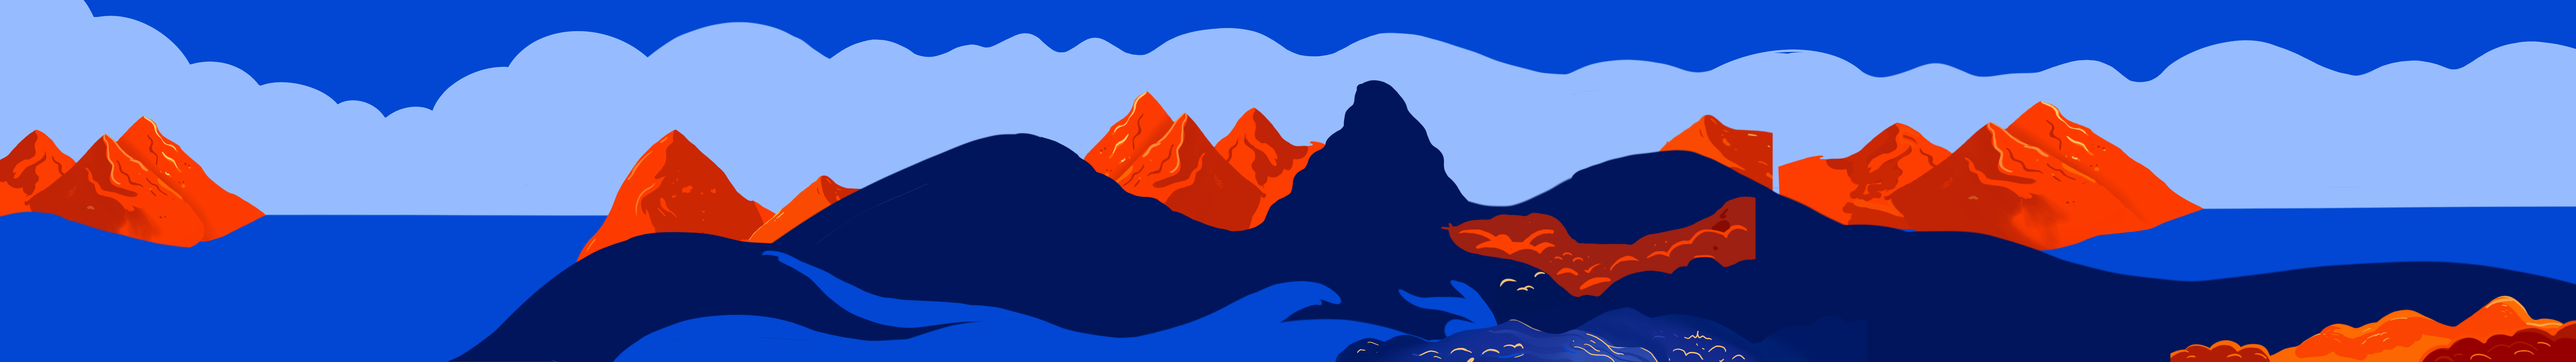
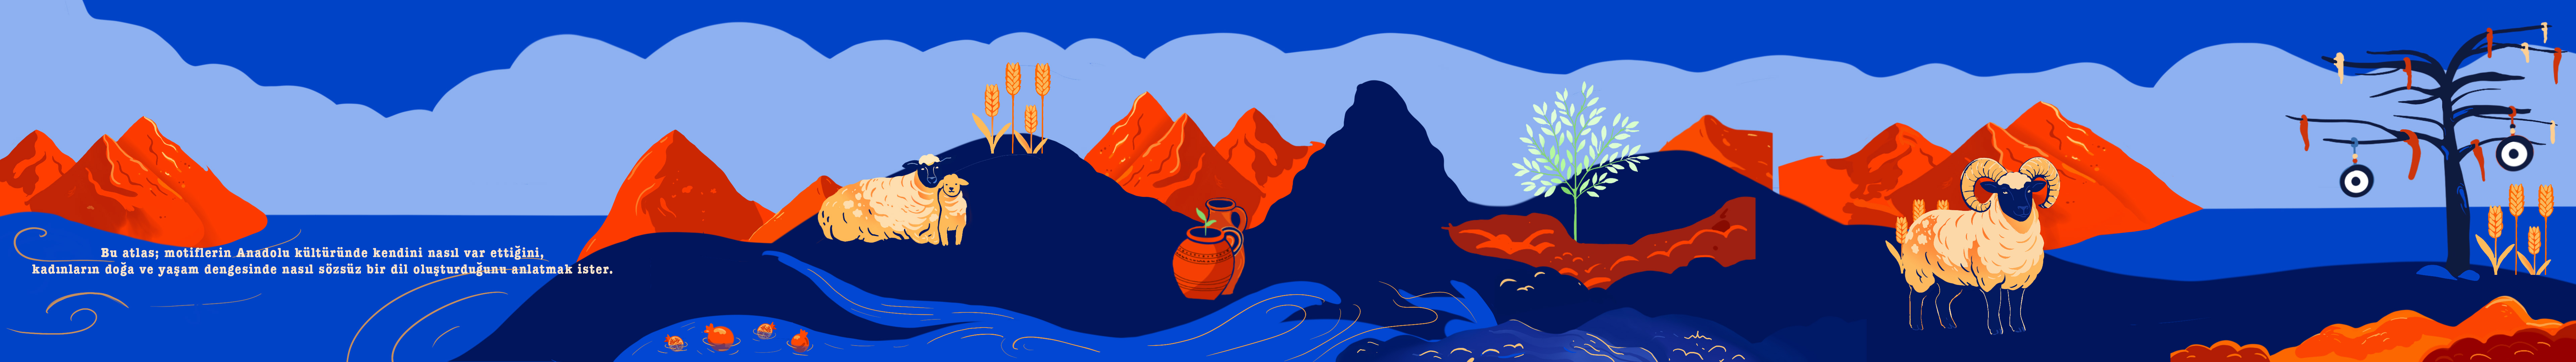
son güncellemelerin hepsi

diff --git a/css/style.css b/css/style.css
@@ -15,13 +15,30 @@ html,body{width:100%;height:100%;overflow:hidden;background:#00155c}
 .overlay.open{transform:translateY(0);opacity:1;pointer-events:all}
 
 /* ── HERO ── */
-#hero{cursor:pointer}
+#hero{cursor:default}
 #hero img{width:100%;height:100%;object-fit:cover;display:block}
 #hero-hint{position:absolute;bottom:48px;left:50%;transform:translateX(-50%);
             color:var(--cream);font-family:'Josefin Slab',serif;font-size:13px;
             letter-spacing:3px;text-transform:uppercase;pointer-events:none;
             animation:pulse 2.5s ease-in-out infinite}
 @keyframes pulse{0%,100%{opacity:.4}50%{opacity:.9}}
+#kesfet-btn{
+  position:absolute;bottom:52px;left:50%;transform:translateX(-50%);
+  background:#fbe5cc;
+  border:2px solid #fbe5cc;
+  color:#00155c;
+  font-family:'American Typewriter','Courier New',serif;
+  font-size:15px;letter-spacing:4px;text-transform:uppercase;
+  padding:11px 36px;
+  cursor:pointer;
+  box-shadow:0 0 28px rgba(251,229,204,.6);
+  transition:background .3s,color .3s,box-shadow .3s;
+  z-index:10;
+}
+#kesfet-btn:hover{
+  background:#ffd4a8;border-color:#ffd4a8;
+  box-shadow:0 0 44px rgba(251,229,204,.9);
+}
 
 /* ── PANO ── */
 #pano{background:var(--bg);overflow:hidden}
@@ -98,7 +115,7 @@ html,body{width:100%;height:100%;overflow:hidden;background:#00155c}
 #topNav{position:fixed;top:22px;right:36px;
            z-index:50;display:flex;gap:36px;align-items:center}
 #topNav button{
-  font-family:'American Typewriter','Courier New',monospace;
+  font-family:'Josefin Slab',monospace;
   font-size:11px;letter-spacing:4px;text-transform:uppercase;
   color:var(--cream);background:transparent;border:none;
   padding:4px 0;cursor:pointer;
@@ -123,9 +140,9 @@ html,body{width:100%;height:100%;overflow:hidden;background:#00155c}
 #scrollIndicator{position:fixed;bottom:30px;left:50%;
                   transform:translateX(-50%);
                   display:flex;align-items:center;gap:10px;
-                  color:var(--cream);font-family:'Josefin Slab',serif;
-                  font-size:11px;letter-spacing:3px;
-                  opacity:.6;pointer-events:none;
+                  color:var(--cream);font-family:'American Typewriter','Courier New',serif;
+                  font-size:15px;letter-spacing:4px;
+                  opacity:.85;pointer-events:none;
                   transition:opacity 1s;z-index:40}
 #scrollIndicator.hidden{opacity:0}
 .arr{animation:arrowBounce 1.5s ease-in-out infinite}
@@ -160,6 +177,7 @@ html,body{width:100%;height:100%;overflow:hidden;background:#00155c}
   /* Hero */
   #hero img{object-position:center center}
   #hero-hint{font-size:10px;letter-spacing:2px;bottom:28px}
+  #kesfet-btn{font-size:11px;letter-spacing:3px;padding:10px 28px;bottom:38px}
 
   /* Dokuma — tam görsel göster, scroll edilebilir */
   .dokuma-img{height:auto;object-fit:contain;}
@@ -175,4 +193,79 @@ html,body{width:100%;height:100%;overflow:hidden;background:#00155c}
 
   /* Kapat butonu */
   .close-btn{top:14px;right:14px;width:36px;height:36px;font-size:16px}
+}
+
+
+/* ── KADIN İLERLEME GÖSTERGESİ ── */
+#womanProgress{
+  position:fixed;bottom:22px;left:50%;transform:translateX(-50%);
+  display:none;align-items:center;gap:14px;
+  z-index:50;pointer-events:none;
+}
+#womanProgress.visible{display:flex;}
+.wp-dots{display:flex;gap:10px;align-items:center;}
+.wp-dot{
+  display:inline-block;width:9px;height:9px;border-radius:50%;
+  background:rgba(251,229,204,0.35);
+  border:1.5px solid rgba(251,229,204,0.6);
+  transition:background .3s,transform .3s;
+}
+.wp-dot.active{
+  background:#fbe5cc;
+  transform:scale(1.45);
+  border-color:#fbe5cc;
+}
+#wp-counter{
+  color:rgba(251,229,204,0.75);
+  font-family:'American Typewriter','Courier New',serif;
+  font-size:13px;letter-spacing:2px;
+}
+
+/* ── FOOTER ── */
+#site-footer{
+  position:fixed;
+  bottom:14px;right:20px;
+  z-index:400;
+  color:rgba(251,229,204,0.65);
+  font-family:'American Typewriter','Courier New',serif;
+  font-size:11px;letter-spacing:1.5px;
+  pointer-events:none;
+  display:none;
+}
+#site-footer.visible{ display:block; }
+
+/* ── KADIN HOVER ETİKETİ ── */
+.woman-label{
+  position:fixed;
+  top:8vh;
+  left:50%;transform:translateX(-50%);
+  color:#fbe5cc;
+  font-family:'American Typewriter','Courier New',serif;
+  font-weight:bold;
+  font-size:clamp(16px,2.2vw,32px);
+  letter-spacing:3px;
+  white-space:nowrap;
+  opacity:0;
+  pointer-events:none;
+  text-shadow:0 2px 12px rgba(0,0,0,0.6);
+  transition:opacity .25s ease;
+  z-index:60;
+}
+.woman-hotspot:hover .woman-label{
+  opacity:1;
+}
+
+/* ── ATLAS HAKKINDA overlay ── */
+#atlas{overflow-y:auto;}
+#atlas .overlay-content{
+  display:block;
+  min-height:unset;
+  padding:0;
+  margin:0;
+}
+#atlas video{
+  width:100%;
+  height:auto;
+  display:block;
+  margin:0;padding:0;
 }

diff --git a/index.html b/index.html
@@ -10,19 +10,17 @@
 <body>
 
 <!-- ══ HERO ══ -->
-<div id="hero" class="page active" onclick="showPanoramic()" style="cursor:pointer">
+<div id="hero" class="page active">
   <img src="assets/images/hero.jpg" alt="MOTİF ATLASI">
   <div id="hero-hint"></div>
+  <button id="kesfet-btn" onclick="showPanoramic()">KEŞFET</button>
 </div>
 
 <!-- ══ PANORAMİK ══ -->
 <div id="pano" class="page" style="display:none">
   <nav id="topNav">
-    <button onclick="showOverlay('kadin')">Kadinlar</button>
-    <button onclick="showOverlay('anadolu')">Anadolu</button>
-    <button onclick="showOverlay('motif')">Dokuma</button>
+    <button onclick="showOverlay('atlas')">ATLAS HAKKINDA</button>
   </nav>
-
   <div id="panoScroller">
     <div id="panoScene">
 
@@ -54,19 +52,19 @@
       <!-- ══ Kadın hotspot tıklama alanları ══ -->
       <div class="woman-hotspot" style="left:21%;width:13%;"
            onmouseenter="womanHover(0,true)" onmouseleave="womanHover(0,false)"
-           onclick="womanClick(event,0,'yasam')"></div>
+           onclick="womanClick(event,0,'yasam')"><span class="woman-label">YAŞAM</span></div>
       <div class="woman-hotspot" style="left:36%;width:11%;"
            onmouseenter="womanHover(1,true)" onmouseleave="womanHover(1,false)"
-           onclick="womanClick(event,1,'bereket')"></div>
+           onclick="womanClick(event,1,'bereket')"><span class="woman-label">BEREKET</span></div>
       <div class="woman-hotspot" style="left:46%;width:14%;"
            onmouseenter="womanHover(2,true)" onmouseleave="womanHover(2,false)"
-           onclick="womanClick(event,2,'akis')"></div>
+           onclick="womanClick(event,2,'akis')"><span class="woman-label">AKIŞ</span></div>
       <div class="woman-hotspot" style="left:57%;width:16%;"
            onmouseenter="womanHover(3,true)" onmouseleave="womanHover(3,false)"
-           onclick="womanClick(event,3,'guc')"></div>
-      <div class="woman-hotspot" style="left:69%;width:24%;"
+           onclick="womanClick(event,3,'guc')"><span class="woman-label">GÜÇ</span></div>
+      <div class="woman-hotspot" style="left:75%;width:12%;"
            onmouseenter="womanHover(4,true)" onmouseleave="womanHover(4,false)"
-           onclick="womanClick(event,4,'nazar')"></div>
+           onclick="womanClick(event,4,'nazar')"><span class="woman-label">NAZAR</span></div>
 
     </div>
   </div>
@@ -74,8 +72,19 @@
   <!-- Uçan kuş -->
   <div id="bird"></div>
 
+  <div id="womanProgress">
+    <div class="wp-dots">
+      <span class="wp-dot" data-i="0"></span>
+      <span class="wp-dot" data-i="1"></span>
+      <span class="wp-dot" data-i="2"></span>
+      <span class="wp-dot" data-i="3"></span>
+      <span class="wp-dot" data-i="4"></span>
+    </div>
+    <span id="wp-counter">1 / 5</span>
+  </div>
+
   <div id="scrollIndicator">
-    <span>KAYDİR</span><span class="arr">→</span>
+    <span>KAYDIRARAK KEŞFET</span>
   </div>
 </div>
 
@@ -95,13 +104,6 @@
   </div>
 </div>
 
-<!-- ══ DOKUMA ══ -->
-<div id="motif" class="overlay" style="display:none">
-  <button class="close-btn" onclick="closeOverlay('motif')">✕</button>
-  <div class="overlay-content" style="background:#87CEEB;align-items:center;justify-content:center;padding:0;min-height:100vh;">
-    <img src="assets/images/dokuma-gorsel.png" alt="DOKUMA" class="dokuma-img" style="display:block;">
-  </div>
-</div>
 
 <div id="yasam" class="overlay" style="display:none">
   <button class="close-btn" onclick="closeOverlay('yasam')">✕</button>
@@ -121,21 +123,16 @@
     <img src="assets/images/overlay-guc.jpg" alt="GÜÇ" style="width:100%;display:block;">
   </div>
 </div>
-<div id="anadolu" class="overlay" style="display:none">
-  <button class="close-btn" onclick="closeOverlay('anadolu')">✕</button>
-  <div class="overlay-content" style="background:#00155c;align-items:center;justify-content:center;padding:0;">
-    <video id="anadoluVideo" autoplay muted loop playsinline
-           style="width:100%;max-height:100vh;object-fit:contain;display:block;">
-      <source src="assets/videos/video-anadolu.mp4" type="video/mp4">
-    </video>
-  </div>
-</div>
-<div id="kadin" class="overlay" style="display:none">
-  <button class="close-btn" onclick="closeOverlay('kadin')">✕</button>
-  <div class="overlay-content" style="background:#00155c;align-items:center;justify-content:center;padding:0;">
-    <video id="kadinVideo" autoplay muted loop playsinline
-           style="width:100%;max-height:100vh;object-fit:contain;display:block;">
-      <source src="assets/videos/video-kadin.mp4" type="video/mp4">
+
+
+<div id="site-footer">© 2026 Motif Atlası.</div>
+
+<div id="atlas" class="overlay" style="display:none">
+  <button class="close-btn" onclick="closeOverlay('atlas')">✕</button>
+  <div class="overlay-content" style="background:#00155c;padding:0;display:block;">
+    <video id="atlasVideo" autoplay muted loop playsinline
+           style="width:100%;height:auto;display:block;">
+      <source src="assets/videos/video-atlas.mp4" type="video/mp4">
     </video>
   </div>
 </div>

diff --git a/js/script.js b/js/script.js
@@ -1,3 +1,6 @@
+// Hero başlangıç
+document.getElementById('site-footer').classList.add('visible');
+
 
 const scroller   = document.getElementById('panoScroller');
 const panoScene  = document.getElementById('panoScene');
@@ -99,6 +102,7 @@ let birdX = window.innerWidth / 2 - 150, prevScroll = 0, smoothVel = 0, birdT = 
 
 // ── Hero → Pano ───────────────────────────
 function showPanoramic() {
+  document.getElementById('site-footer').classList.remove('visible');
   const hero = document.getElementById('hero');
   const pano = document.getElementById('pano');
   hero.classList.remove('active');
@@ -110,7 +114,7 @@ function showPanoramic() {
   let scrolled = false;
   const ind = document.getElementById('scrollIndicator');
   scroller.addEventListener('scroll', () => {
-    if (!scrolled) { scrolled = true; ind.classList.add('hidden'); }
+    if (!scrolled) { scrolled = true; ind.classList.add('hidden'); document.getElementById('womanProgress').classList.add('visible'); }
   }, {passive:true});
 }
 
@@ -144,6 +148,7 @@ document.addEventListener('keydown', e=>{
 
 // ── Overlays ──────────────────────────────
 function showOverlay(id){
+  document.getElementById('site-footer').classList.add('visible');
   if(currentOverlay) closeOverlay(currentOverlay,true);
   currentOverlay=id;
   const el=document.getElementById(id);
@@ -154,6 +159,7 @@ function showOverlay(id){
   requestAnimationFrame(()=>el.classList.add('open'));
 }
 function closeOverlay(id,instant){
+  document.getElementById('site-footer').classList.remove('visible');
   const el=document.getElementById(id);
   if(!el) return;
   const vid=el.querySelector('video');
@@ -163,3 +169,29 @@ function closeOverlay(id,instant){
   else setTimeout(()=>el.style.display='none',600);
   if(currentOverlay===id) currentOverlay=null;
 }
+
+
+// ── Kadın ilerleme göstergesi ──────────────
+(function initProgress(){
+  const dots    = Array.from(document.querySelectorAll('.wp-dot'));
+  const counter = document.getElementById('wp-counter');
+  const centers = _wCenters; // [0.276, 0.416, 0.534, 0.653, 0.811]
+
+  function updateProgress(){
+    const sw  = panoScene.offsetWidth || window.innerWidth * 5;
+    const vw  = window.innerWidth;
+    const s   = scroller.scrollLeft;
+    const mid = s + vw / 2;
+    // En yakın kadını bul
+    let closest = 0, minDist = Infinity;
+    centers.forEach((c, i)=>{
+      const dist = Math.abs(c * sw - mid);
+      if(dist < minDist){ minDist = dist; closest = i; }
+    });
+    dots.forEach((d,i)=> d.classList.toggle('active', i === closest));
+    counter.textContent = (closest+1) + ' / 5';
+  }
+
+  scroller.addEventListener('scroll', updateProgress, {passive:true});
+  updateProgress();
+})();